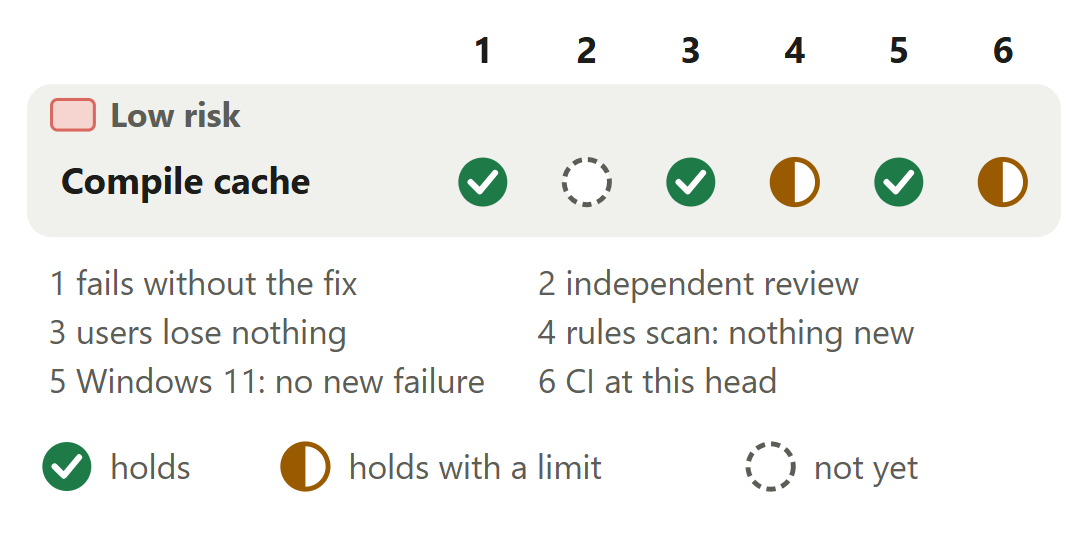
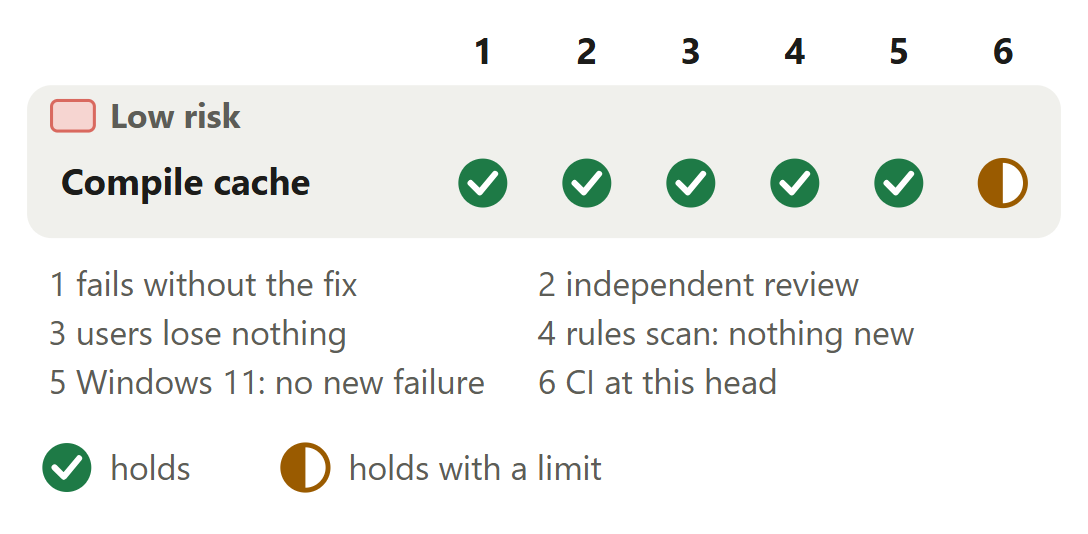
Decision report for #959 (JeanFrancoisGagne/hook-call-loads-only-what-it-needs)
hook-call-loads-only-what-it-needs/ holds what the pull request's callout links: README.md, the report in GitHub Markdown; report.html, the self-standing page; and 1 image(s).

diff --git a/hook-call-loads-only-what-it-needs/report.html b/hook-call-loads-only-what-it-needs/report.html
@@ -317,42 +317,43 @@ td .src { display: block; font-size: 13px; color: var(--muted); margin-top: 3px;
   <div class="q"><div class="ql">1. The one question</div>
   <p>May Rerail&#x27;s Claude Code hook launcher turn on Node&#x27;s compile cache, in Node&#x27;s default folder, so each Windows hook call reuses earlier compiled code?</p>
   </div>
-  <p class="rec"><b>We recommend:</b> approve it: every hook does what it did, and each Windows hook call starts about 26 ms sooner, 241 to 215 ms at the median on Windows 11.</p>
+  <p class="rec"><b>We recommend:</b> approve it: every hook does what it did, and each Windows hook call starts about 21 ms sooner, 180 to 159 ms at the median on Windows 11.</p>
   <div class="big">
-    <div><b class="w">86 lines</b><span>in 4 files. 28 ship, 58 are tests and text.</span></div><div><b class="w">Fast review</b><span>Low risk: one module; every session&#x27;s hooks answer as before.</span></div><div><b class="w">Waits on Nothing</b><span>CI at the first merge: no failure <code>main</code> lacks.</span></div><div><b class="w">4 not verified</b><span><a href="#gaps">Part 8</a> lists each.</span></div>
+    <div><b class="w">199 lines</b><span>in 4 files. 39 ship, 160 are tests and text.</span></div><div><b class="w">Fast review</b><span>Low risk: one module; every session&#x27;s hooks answer as before.</span></div><div><b class="w">Waits on Nothing</b><span>CI at an earlier form: no failure <code>main</code> lacks.</span></div><div><b class="w">5 not verified</b><span><a href="#gaps">Part 8</a> lists each.</span></div>
   </div>
-  <p class="state">Read from <a href="https://github.com/neralabs/rerail/pull/959">GitHub</a> on 20 November 2026, at head 26d6f38b3.</p>
+  <p class="state">Read from <a href="https://github.com/neralabs/rerail/pull/959">GitHub</a> on 21 November 2026, at head 023690bfb.</p>
 </header>
 <section id="intent"><h2>2. Intent, and the gap</h2>
-<figure class="fg flat"><table class="tc it"><colgroup><col style="width:15%"><col style="width:25%"><col style="width:29%"><col style="width:31%"></colgroup><thead><tr><th>Change</th><th>Intended</th><th>Found</th><th>Now</th></tr></thead><tbody><tr><td class="k"><b>A compile each call</b></td><td class="in" data-l="Intended">A hook call spends its time on the hook&#x27;s work, not on compiling the same script again in every process. <span class="tagx">our reading</span></td><td class="fo" data-l="Found">Every Windows hook call parses and compiles the 2.3 MB hook script again: 33.3 ms of a 217 ms call at the median, idle Windows 11. <span class="tagx">marks, 140 calls</span></td><td class="now" data-l="Now"><b>Closes the gap</b> and turns on Node&#x27;s compile cache in the launcher&#x27;s process, gives a hook it runs under another node the same folder, and leaves it off where <code>NODE_DISABLE_COMPILE_CACHE=1</code> says.</td></tr></tbody></table>
+<figure class="fg flat"><table class="tc it"><colgroup><col style="width:15%"><col style="width:25%"><col style="width:29%"><col style="width:31%"></colgroup><thead><tr><th>Change</th><th>Intended</th><th>Found</th><th>Now</th></tr></thead><tbody><tr><td class="k"><b>A compile each call</b></td><td class="in" data-l="Intended">A hook call spends its time on the hook&#x27;s work, not on compiling the same script again in every process. <span class="tagx">our reading</span></td><td class="fo" data-l="Found">Every Windows hook call parses and compiles the 2.3 MB hook script again: 33.3 ms of a 217 ms call at the median, idle Windows 11. <span class="tagx">marks, 140 calls</span></td><td class="now" data-l="Now"><b>Closes the gap</b> and turns on Node&#x27;s compile cache in the launcher&#x27;s process, or, under another node, in the recorded node&#x27;s launcher; it stays off where <code>NODE_DISABLE_COMPILE_CACHE=1</code> says.</td></tr></tbody></table>
 <figcaption>Found in November 2026 on Windows 11 virtual machines, timing each part of a Claude Code hook call.</figcaption></figure>
 <details class="ev"><summary>Sources at main, and causes</summary><div class="table-wrap"><table class="tc tight"><colgroup><col style="width:16%"><col style="width:42%"><col style="width:42%"></colgroup><thead><tr><th>Change</th><th>Where main states the intent</th><th>The cause, and what was measured</th></tr></thead><tbody><tr><td class="k">A compile each call</td><td data-l="Where main states the intent"><code>src/harness/hook-launcher.ts</code> at d54b586a8, lines 1 to 13: the launcher &quot;runs the hook under the node recorded at registration, in this process when that node started it&quot;. Nothing in it turns on Node&#x27;s compile cache.</td><td data-l="The cause, and what was measured">Each hook event starts a Node, and Node keeps its compile cache off unless <code>NODE_COMPILE_CACHE</code> or <code>module.enableCompileCache</code> turns it on, so V8 compiles the whole script in every process. A CPU profile of 3 calls on a busy machine put <code>compileSourceTextModule</code> at 44.3 ms a call at <code>main</code>. With <code>NODE_COMPILE_CACHE</code> set by hand, <code>main</code>&#x27;s calls went from 227 to 201 ms at the median.</td></tr></tbody></table></div></details>
 </section><section id="look"><h2>3. Where to look</h2>
 <p class="sub">Minutes are our estimate.</p>
-<ol class="steps"><li class="first"><div><span class="rf">Read first</span><b><code>hook-launcher.ts</code>: <code>compileCacheEnv</code>, and the <code>env</code> it hands <code>spawnSync</code></b><span class="min">5 min</span><span class="x">Can an old node, a folder Node cannot make, or <code>NODE_DISABLE_COMPILE_CACHE=1</code> stop a hook from running?</span></div></li></ol>
-<div class="skim"><i></i><div><span class="rf">Then skim</span><b>Tests and text</b><span class="min">3 min</span><span class="x"><code>hook-launcher.test.ts</code>: a stand-in hook reports <code>getCompileCacheDir()</code>, run through the launcher in its own process and under another node, with the cache on and off.</span></div></div>
+<ol class="steps"><li class="first"><div><span class="rf">Read first</span><b><code>hook-launcher.ts</code>: <code>turnOnCompileCache</code>, and the launcher it starts under the recorded node with <code>--here</code></b><span class="min">5 min</span><span class="x">Can an old node, <code>NODE_DISABLE_COMPILE_CACHE=1</code> or a file named <code>--here</code> stop a hook or start a third launcher?</span></div></li></ol>
+<div class="skim"><i></i><div><span class="rf">Then skim</span><b>Tests and text</b><span class="min">3 min</span><span class="x"><code>hook-launcher.test.ts</code>: a stand-in hook reports <code>getCompileCacheDir()</code>, run through the launcher in its own process and under another node, with the cache on and off, and a launcher started with <code>--here</code>.</span></div></div>
 </section><section id="grid"><h2>4. Risk against verification</h2>
-<figure class="fg"><svg viewBox="0 0 340 159" role="img" aria-label="The changes by risk, high on top, against six checks. Compile cache, low risk: independent review does not hold yet, rules scan: nothing new holds with a limit. CI at this head holds with a limit for every change." class="dg grid"><text x="150" y="13" text-anchor="middle" class="t b">1</text><text x="184" y="13" text-anchor="middle" class="t b">2</text><text x="218" y="13" text-anchor="middle" class="t b">3</text><text x="252" y="13" text-anchor="middle" class="t b">4</text><text x="286" y="13" text-anchor="middle" class="t b">5</text><text x="320" y="13" text-anchor="middle" class="t b">6</text><rect x="1" y="20" width="338" height="50" rx="8" class="bx zone"/><rect x="9" y="25" width="14" height="10" rx="2" class="rk low"/><text x="28" y="34" class="t s b">Low risk</text><text x="12" y="56" class="t b">Compile cache</text><g><title>Compile cache, fails without the fix: With the test alone at `main` d54b586a8, the two new cases of `hook-launcher.test.ts` fail on Windows 11 and on Linux x64: 2 failed, 13 passed. At afc47e2e3 all 15 pass on both.</title><circle cx="150" cy="52" r="8" class="mh"/><path d="M146 52l3 3l5 -6" class="mt"/></g><g><title>Compile cache, independent review: No review by a second reader has run on this change yet.</title><circle cx="184" cy="52" r="7.4" class="mo"/></g><g><title>Compile cache, users lose nothing: No registered hook command and no hook&#x27;s code changes. A node without `module.enableCompileCache`, a cache folder Node cannot make, or `NODE_DISABLE_COMPILE_CACHE=1` runs the hook as before; two cases check the last on both systems.</title><circle cx="218" cy="52" r="8" class="mh"/><path d="M214 52l3 3l5 -6" class="mt"/></g><g><title>Compile cache, rules scan: nothing new: `npm run check` passed in the commit hook at afc47e2e3. The automated reviewer&#x27;s rules have not run over the diff.</title><circle cx="252" cy="52" r="7.4" class="ml"/><path d="M252 44.6A7.4 7.4 0 0 0 252 59.4Z" class="mlf"/></g><g><title>Compile cache, Windows 11: no new failure: Windows 11, 8 cores: the test file passed, 15 of 15, and seven hook kinds ran 50 calls each a build, as set-up registers them, with no failed call.</title><circle cx="286" cy="52" r="8" class="mh"/><path d="M282 52l3 3l5 -6" class="mt"/></g><g><title>Compile cache, CI at this head: The repository&#x27;s CI ran at fad788bb3, the first merge of `main`, on GitHub&#x27;s runners in the fork: no failure `main` lacks there. One Rust job was cancelled; the change reaches no Rust. The second merge changed no file both sides touch.</title><circle cx="320" cy="52" r="7.4" class="ml"/><path d="M320 44.6A7.4 7.4 0 0 0 320 59.4Z" class="mlf"/></g><text x="8" y="89" class="t s">1  fails without the fix</text><text x="168" y="89" class="t s">2  independent review</text><text x="8" y="105" class="t s">3  users lose nothing</text><text x="168" y="105" class="t s">4  rules scan: nothing new</text><text x="8" y="121" class="t s">5  Windows 11: no new failure</text><text x="168" y="121" class="t s">6  CI at this head</text><g><title>holds</title><circle cx="14" cy="145" r="8" class="mh"/><path d="M10 145l3 3l5 -6" class="mt"/></g><text x="28" y="149" class="t s">holds</text><g><title>holds with a limit</title><circle cx="92" cy="145" r="7.4" class="ml"/><path d="M92 137.6A7.4 7.4 0 0 0 92 152.4Z" class="mlf"/></g><text x="106" y="149" class="t s">holds with a limit</text><g><title>does not hold yet</title><circle cx="244.1" cy="145" r="7.4" class="mo"/></g><text x="258.1" y="149" class="t s">not yet</text></svg>
-<figcaption>One change, low risk: one function in the Windows hook launcher; no registered hook command and no hook&#x27;s code changes.</figcaption></figure>
-<details class="ev"><summary>Each limit, and each check that does not hold yet</summary><div class="table-wrap"><table class="tc tight"><colgroup><col style="width:18%"><col style="width:22%"><col style="width:60%"></colgroup><thead><tr><th>Change</th><th>Check</th><th>Its limit, or why it does not hold yet</th></tr></thead><tbody><tr><td class="k">Compile cache</td><td data-l="Check">independent review</td><td data-l="Its limit, or why it does not hold yet">No review by a second reader has run on this change yet.</td></tr><tr><td class="k">Compile cache</td><td data-l="Check">rules scan: nothing new</td><td data-l="Its limit, or why it does not hold yet"><code>npm run check</code> passed in the commit hook at afc47e2e3. The automated reviewer&#x27;s rules have not run over the diff.</td></tr><tr><td class="k">Compile cache</td><td data-l="Check">CI at this head</td><td data-l="Its limit, or why it does not hold yet">The repository&#x27;s CI ran at fad788bb3, the first merge of <code>main</code>, on GitHub&#x27;s runners in the fork: no failure <code>main</code> lacks there. One Rust job was cancelled; the change reaches no Rust. The second merge changed no file both sides touch.</td></tr></tbody></table></div></details>
+<figure class="fg"><svg viewBox="0 0 340 159" role="img" aria-label="The changes by risk, high on top, against six checks. Compile cache, low risk: the first five checks hold. CI at this head holds with a limit for every change." class="dg grid"><text x="150" y="13" text-anchor="middle" class="t b">1</text><text x="184" y="13" text-anchor="middle" class="t b">2</text><text x="218" y="13" text-anchor="middle" class="t b">3</text><text x="252" y="13" text-anchor="middle" class="t b">4</text><text x="286" y="13" text-anchor="middle" class="t b">5</text><text x="320" y="13" text-anchor="middle" class="t b">6</text><rect x="1" y="20" width="338" height="50" rx="8" class="bx zone"/><rect x="9" y="25" width="14" height="10" rx="2" class="rk low"/><text x="28" y="34" class="t s b">Low risk</text><text x="12" y="56" class="t b">Compile cache</text><g><title>Compile cache, fails without the fix: With the test alone at `main` d54b586a8, the two cache cases of `hook-launcher.test.ts` fail on Windows 11 and on Linux x64. Here all 22 cases pass on two Windows 11 machines and on Linux x64.</title><circle cx="150" cy="52" r="8" class="mh"/><path d="M146 52l3 3l5 -6" class="mt"/></g><g><title>Compile cache, independent review: Under another node the launcher starts itself under the recorded node with `--here`, and the hook gets no `NODE_COMPILE_CACHE` the person did not set. The case for that word fails with the launcher&#x27;s check taken out, on Windows 11 and on Linux x64: 1 failed, 21 passed.</title><circle cx="184" cy="52" r="8" class="mh"/><path d="M180 52l3 3l5 -6" class="mt"/></g><g><title>Compile cache, users lose nothing: No registered hook command and no hook&#x27;s code changes. A node without `module.enableCompileCache`, a cache folder Node cannot make, or `NODE_DISABLE_COMPILE_CACHE=1` runs the hook as before; cases check the last on both systems.</title><circle cx="218" cy="52" r="8" class="mh"/><path d="M214 52l3 3l5 -6" class="mt"/></g><g><title>Compile cache, rules scan: nothing new: Our own second reader&#x27;s three follow-ups and one nit are each closed with a case or shown false by Node&#x27;s source. The automated reviewer&#x27;s rules find nothing new, and CI&#x27;s lint and type-check commands pass on Linux x64.</title><circle cx="252" cy="52" r="8" class="mh"/><path d="M248 52l3 3l5 -6" class="mt"/></g><g><title>Compile cache, Windows 11: no new failure: Windows 11, 8 cores: seven hook kinds ran 50 calls each a form, as set-up registers them, with no failed call.</title><circle cx="286" cy="52" r="8" class="mh"/><path d="M282 52l3 3l5 -6" class="mt"/></g><g><title>Compile cache, CI at this head: The repository&#x27;s CI ran at fad788bb3, an earlier form, on GitHub&#x27;s runners in the fork: no failure `main` lacks there. One Rust job was cancelled; the change reaches no Rust.</title><circle cx="320" cy="52" r="7.4" class="ml"/><path d="M320 44.6A7.4 7.4 0 0 0 320 59.4Z" class="mlf"/></g><text x="8" y="89" class="t s">1  fails without the fix</text><text x="168" y="89" class="t s">2  independent review</text><text x="8" y="105" class="t s">3  users lose nothing</text><text x="168" y="105" class="t s">4  rules scan: nothing new</text><text x="8" y="121" class="t s">5  Windows 11: no new failure</text><text x="168" y="121" class="t s">6  CI at this head</text><g><title>holds</title><circle cx="14" cy="145" r="8" class="mh"/><path d="M10 145l3 3l5 -6" class="mt"/></g><text x="28" y="149" class="t s">holds</text><g><title>holds with a limit</title><circle cx="92" cy="145" r="7.4" class="ml"/><path d="M92 137.6A7.4 7.4 0 0 0 92 152.4Z" class="mlf"/></g><text x="106" y="149" class="t s">holds with a limit</text></svg>
+<figcaption>One change, low risk: the Windows hook launcher turns the cache on, under another node from the recorded node; no hook command or hook code changes.</figcaption></figure>
+<details class="ev"><summary>Each half mark's limit</summary><div class="table-wrap"><table class="tc tight"><colgroup><col style="width:18%"><col style="width:22%"><col style="width:60%"></colgroup><thead><tr><th>Change</th><th>Check</th><th>It holds with this limit</th></tr></thead><tbody><tr><td class="k">Compile cache</td><td data-l="Check">CI at this head</td><td data-l="It holds with this limit">The repository&#x27;s CI ran at fad788bb3, an earlier form, on GitHub&#x27;s runners in the fork: no failure <code>main</code> lacks there. One Rust job was cancelled; the change reaches no Rust.</td></tr></tbody></table></div></details>
 </section><section id="changes"><h2>5. The changes</h2>
-<ul class="lines"><li><span class="chip low"><i></i>Low risk</span> <b>The launcher turns on the cache</b>: Windows 11, by the marks: the hook script&#x27;s compile takes 37.2 ms a call on <code>main</code>, 9.2 ms here.</li></ul>
+<ul class="lines"><li><span class="chip low"><i></i>Low risk</span> <b>The launcher turns on the cache</b>: Windows 11: a hook call takes 180 ms at the median on <code>main</code>, 159 ms here.</li></ul>
 </section><section id="decisions"><h2>6. The decisions</h2>
 <div class="dblock"><h3>Remove the compile with Node&#x27;s cache, or with a smaller hook script?</h3>
 <p><b>We chose</b> the compile cache in the launcher: it removes the compile with one call and changes no module the hook loads.</p>
 <p><b>Would change our mind:</b> A maintainer who prefers the slimmer hook script first, which would also shorten the hook&#x27;s top-level code.</p>
-<details class="ev"><summary>Options and evidence</summary><div class="table-wrap"><table class="tc tight"><colgroup><col style="width:28%"><col style="width:22%"><col style="width:22%"><col style="width:28%"></colgroup><thead><tr><th>Option</th><th>What a user gets</th><th>Cost</th><th>What it breaks</th></tr></thead><tbody><tr><td class="k">Compile cache in the launcher <span class='tag new'>chosen</span></td><td data-l="What a user gets">The script&#x27;s compile in a Windows call goes from 37 to 9 ms.</td><td data-l="Cost">One call in the launcher.</td><td data-l="What it breaks">Nothing found.</td></tr><tr><td class="k">A hook script holding only the hook&#x27;s own modules</td><td data-l="What a user gets">Less to compile and less top-level code to run: that code and the work before the first request take 36.0 ms a call.</td><td data-l="Cost">Moving the daemon&#x27;s event client and its runtime out of the hook&#x27;s imports, in several modules.</td><td data-l="What it breaks">Nothing, if built.</td></tr><tr><td class="k">One request to the daemon per call in place of four</td><td data-l="What a user gets">Part of the 30 ms the four requests take beside the daemon&#x27;s own answers, not measured apart.</td><td data-l="Cost">A new daemon request.</td><td data-l="What it breaks">A daemon of an earlier release would not answer it.</td></tr><tr><td class="k">The compile cache for Linux and macOS too</td><td data-l="What a user gets">The same gain there: on Linux x64 the compile is 32.6 ms of a 167 ms call.</td><td data-l="Cost">A new registered hook command, rewritten in every person&#x27;s settings.</td><td data-l="What it breaks">Nothing, if built.</td></tr></tbody></table></div><p><b>Evidence.</b> Marks in a throwaway copy of the installed hook, 140 calls on idle Windows 11, medians: Windows starts the process in 16.9 ms, Node&#x27;s own start takes 14.1 ms, built-ins and better-sqlite3&#x27;s JavaScript 22.7 ms, the daemon&#x27;s answers 30.9 ms.</p></details></div>
+<details class="ev"><summary>Options and evidence</summary><div class="table-wrap"><table class="tc tight"><colgroup><col style="width:28%"><col style="width:22%"><col style="width:22%"><col style="width:28%"></colgroup><thead><tr><th>Option</th><th>What a user gets</th><th>Cost</th><th>What it breaks</th></tr></thead><tbody><tr><td class="k">Compile cache in the launcher <span class='tag new'>chosen</span></td><td data-l="What a user gets">The script&#x27;s compile in a Windows call goes from 37 to 9 ms.</td><td data-l="Cost">One call in the launcher.</td><td data-l="What it breaks">Nothing found.</td></tr><tr><td class="k">A hook script holding only the hook&#x27;s own modules</td><td data-l="What a user gets">Less to compile and less top-level code to run: that code and the work before the first request take 36.0 ms a call.</td><td data-l="Cost">Moving the daemon&#x27;s event client and its runtime out of the hook&#x27;s imports, in several modules.</td><td data-l="What it breaks">Nothing, if built.</td></tr><tr><td class="k">One request to the daemon per call in place of four</td><td data-l="What a user gets">Part of the 30 ms the four requests take beside the daemon&#x27;s own answers, not measured apart.</td><td data-l="Cost">A new daemon request.</td><td data-l="What it breaks">A daemon of an earlier release would not answer it.</td></tr><tr><td class="k">The compile cache for Linux and macOS too</td><td data-l="What a user gets">The same gain there: on Linux x64 the compile is 33.9 ms of a 169 ms call.</td><td data-l="Cost">A new registered hook command, rewritten in every person&#x27;s settings.</td><td data-l="What it breaks">Nothing, if built.</td></tr></tbody></table></div><p><b>Evidence.</b> Marks in a throwaway copy of the installed hook, 140 calls on idle Windows 11, medians: Windows starts the process in 16.9 ms, Node&#x27;s own start takes 14.1 ms, built-ins and better-sqlite3&#x27;s JavaScript 22.7 ms, the daemon&#x27;s answers 30.9 ms.</p></details></div>
 <div class="dblock"><h3>Keep the cache in Node&#x27;s default folder, or under the Rerail home?</h3>
 <p><b>We chose</b> Node&#x27;s own folder, or the one <code>NODE_COMPILE_CACHE</code> names: Node&#x27;s tools already share it, and the launcher works out no path.</p>
 <p><b>Would change our mind:</b> A maintainer who prefers the cache folder under the Rerail home.</p>
-<details class="ev"><summary>Options and evidence</summary><div class="table-wrap"><table class="tc tight"><colgroup><col style="width:28%"><col style="width:22%"><col style="width:22%"><col style="width:28%"></colgroup><thead><tr><th>Option</th><th>What a user gets</th><th>Cost</th><th>What it breaks</th></tr></thead><tbody><tr><td class="k">Node&#x27;s default folder, or the one <code>NODE_COMPILE_CACHE</code> names <span class='tag new'>chosen</span></td><td data-l="What a user gets">One cache for every Node program a person runs, where a person who set <code>NODE_COMPILE_CACHE</code> expects it.</td><td data-l="Cost">About 1.2 MB more in the temporary folder.</td><td data-l="What it breaks">Nothing found.</td></tr><tr><td class="k">A folder under the Rerail home</td><td data-l="What a user gets">Rerail&#x27;s files in one place.</td><td data-l="Cost">A path the launcher works out before it loads the hook.</td><td data-l="What it breaks">A person&#x27;s own <code>NODE_COMPILE_CACHE</code> would not be followed.</td></tr></tbody></table></div><p><b>Evidence.</b> After the Windows 11 run the temporary folder&#x27;s cache held 596 files, 4,012 KB here against 580 files, 2,856 KB at <code>main</code>, where npm&#x27;s own set-up entries are the rest.</p></details></div>
+<details class="ev"><summary>Options and evidence</summary><div class="table-wrap"><table class="tc tight"><colgroup><col style="width:28%"><col style="width:22%"><col style="width:22%"><col style="width:28%"></colgroup><thead><tr><th>Option</th><th>What a user gets</th><th>Cost</th><th>What it breaks</th></tr></thead><tbody><tr><td class="k">Node&#x27;s default folder, or the one <code>NODE_COMPILE_CACHE</code> names <span class='tag new'>chosen</span></td><td data-l="What a user gets">One cache for every Node program a person runs, where a person who set <code>NODE_COMPILE_CACHE</code> expects it.</td><td data-l="Cost">About 1.2 MB more in the temporary folder.</td><td data-l="What it breaks">Nothing found.</td></tr><tr><td class="k">A folder under the Rerail home</td><td data-l="What a user gets">Rerail&#x27;s files in one place.</td><td data-l="Cost">A path the launcher works out before it loads the hook.</td><td data-l="What it breaks">A person&#x27;s own <code>NODE_COMPILE_CACHE</code> would not be followed.</td></tr></tbody></table></div><p><b>Evidence.</b> After the Windows 11 run the temporary folder&#x27;s cache held 596 files, 4,052 KB here against 580 files, 2,856 KB at <code>main</code>, where npm&#x27;s own set-up entries are the rest.</p></details></div>
 </section><section id="fits"><h2>7. How it fits</h2>
-<p>Nothing has to merge first: the change stands on <code>main</code> d54b586a8, and the head holds <code>main</code> d93d74b74 through two merges Git made alone.</p>
-<p>In code it edits <code>hook-launcher.ts</code> alone; <code>main</code>&#x27;s later edit of <code>docs/windows.md</code> is in another section of that file.</p>
+<p>Nothing has to merge first: the head holds <code>main</code> 92fae67d8 through one merge Git made alone.</p>
+<p>#963 shares no line with it and merges alone either way. With #963, only older entries and paths <code>cmd.exe</code> cannot start take two Nodes.</p>
 </section><section id="gaps"><h2>8. What is not covered</h2>
 <ul class="lines">
 <li><b>Linux and macOS</b> start the hook from a shell-form entry without the launcher, so they still compile the script at each call.</li>
 <li><b>Codex&#x27;s and Cursor&#x27;s Windows entries</b> start the hook from PowerShell without the launcher, and still compile it at each call.</li>
+<li><b>Another node first on PATH</b> still starts two Nodes a call, as at <code>main</code>, and the second loads the launcher too: 204 ms against 221 ms at <code>main</code>.</li>
 <li><b>The slimmer hook script</b> is the next option, not built here: it would leave less to compile and less top-level code to run.</li>
 <li><b>macOS</b> never ran.</li>
 </ul>
@@ -361,14 +362,14 @@ td .src { display: block; font-size: 13px; color: var(--muted); margin-top: 3px;
 <ul class="facts">
 <li>A registered command that names the cache would bring the gain to Linux and macOS; it rewrites every person&#x27;s settings, so it is left for a change of its own.</li>
 <li>The two requests a call makes before its event, a check of the daemon&#x27;s capability and a read of the repository&#x27;s state, and the event itself stay as they are.</li>
-<li>Other runs kept the Windows 11 machine busy during the timing, at 100% CPU at its start; <code>main</code>, this change and 0.1.5 ran round by round in the same run.</li>
+<li>The Windows 11 machine was idle during the timing, 1% CPU at its start and end; a short test run on a sibling virtual machine overlapped its first rounds, which all four forms shared.</li>
 </ul></details>
 </section><section id="asks"><h2>9. What we ask of you</h2>
 <p>We ask no ruling.</p>
 </section><section id="evidence"><h2>10. Evidence</h2>
 <p>The description on GitHub is the record: &quot;Why it is worth landing&quot; holds the timings, and &quot;How you tested it&quot; the cases and the runs.</p>
-<details class="ev"><summary>Runs at this head</summary><div class="table-wrap"><table class="tc tight"><colgroup><col style="width:16%"><col style="width:40%"><col style="width:44%"></colgroup><thead><tr><th>Where</th><th>What ran</th><th>Result</th></tr></thead><tbody><tr><td class="k">Windows 11 and Linux x64</td><td data-l="What ran"><code>test/harness/hook-launcher.test.ts</code> with the test alone at <code>main</code> d54b586a8, then at afc47e2e3</td><td data-l="Result">With the test alone: 2 failed, 13 passed on each system. At afc47e2e3: 15 passed on each.</td></tr><tr><td class="k">Windows 11, 8 cores</td><td data-l="What ran">Rerail packed and set up from a local registry, <code>main</code> d54b586a8 and this change beside the published 0.1.5; seven hook kinds, 50 calls each a build, round by round</td><td data-l="Result">Medians: 241 ms at <code>main</code>, 215 ms here, 250 ms for 0.1.5, 50 ms for <code>node -e 0</code>; 95th percentiles 394, 376 and 519 ms. Each kind 18 to 31 ms faster here.</td></tr><tr><td class="k">Linux x64, 16 cores</td><td data-l="What ran">The same set-up and hook calls, 350 calls a build</td><td data-l="Result">Medians: 174 ms at <code>main</code>, 176 ms here, 175 ms for 0.1.5, 20 ms for <code>node -e 0</code>: unchanged, as expected, since the shell-form entry skips the launcher.</td></tr><tr><td class="k">Windows 11, 8 cores</td><td data-l="What ran">The issue&#x27;s steps, twice: the hook as the launcher leaves it, the hook with the cache off, and <code>node -e 0</code></td><td data-l="Result"><code>main</code> 254, 259 and 87 ms, then 167, 169 and 46 ms; here 219, 255 and 84 ms, then 127, 149 and 43 ms. Other work kept the machine at 100% CPU in the first run.</td></tr><tr><td class="k">GitHub&#x27;s runners, in the fork</td><td data-l="What ran">The repository&#x27;s CI at fad788bb3, the first merge of <code>main</code></td><td data-l="Result">No failure that <code>main</code> does not have there; one Rust job was cancelled, and the change reaches no Rust.</td></tr></tbody></table></div></details>
-<details class="ev"><summary>Sources</summary><p>The branch at 26d6f38b3 and its diff against <code>main</code> d93d74b74, read on 20 November 2026; tests at afc47e2e3 and timings on <code>main</code> d54b586a8, on Windows 11 virtual machines and Linux x64 machines.</p></details>
+<details class="ev"><summary>Runs at this head</summary><div class="table-wrap"><table class="tc tight"><colgroup><col style="width:16%"><col style="width:40%"><col style="width:44%"></colgroup><thead><tr><th>Where</th><th>What ran</th><th>Result</th></tr></thead><tbody><tr><td class="k">Windows 11 and Linux x64</td><td data-l="What ran"><code>test/harness/hook-launcher.test.ts</code> with the test alone at <code>main</code> d54b586a8, then here</td><td data-l="Result">With the test alone: the two cache cases fail on each system. Here: 22 passed on two Windows 11 machines and on Linux x64.</td></tr><tr><td class="k">Windows 11 and Linux x64</td><td data-l="What ran">The launcher with its check of <code>--here</code> taken out</td><td data-l="Result">The <code>--here</code> case fails alone: 1 failed, 21 passed, on each system.</td></tr><tr><td class="k">Windows 11, 8 cores</td><td data-l="What ran">Rerail packed and set up from a local registry, <code>main</code> 92fae67d8 and this change; seven hook kinds, 50 calls each a form, round by round, with <code>node</code> on PATH the recorded node and with another node first</td><td data-l="Result">Medians: 180 ms at <code>main</code>, 159 ms here; 221 and 204 ms with the other node first, two Nodes a call at both; 35 ms for <code>node -e 0</code>. 95th percentiles 290, 266, 354 and 316 ms.</td></tr><tr><td class="k">Linux x64, 16 cores</td><td data-l="What ran">The same set-up and hook calls at <code>main</code> 92fae67d8 and this change, 350 calls a build</td><td data-l="Result">Medians: 168 ms at <code>main</code>, 167 ms with the change, 171 ms for 0.1.5, 21 ms for <code>node -e 0</code>: unchanged, as expected, since the shell-form entry skips the launcher.</td></tr><tr><td class="k">Windows 11, 8 cores</td><td data-l="What ran">The issue&#x27;s steps with the first form, twice: the hook as the launcher leaves it, the hook with the cache off, and <code>node -e 0</code></td><td data-l="Result"><code>main</code> 254, 259 and 87 ms, then 167, 169 and 46 ms; with the change 219, 255 and 84 ms, then 127, 149 and 43 ms. Other work kept the machine at 100% CPU in the first run.</td></tr><tr><td class="k">GitHub&#x27;s runners, in the fork</td><td data-l="What ran">The repository&#x27;s CI at fad788bb3, the first merge of <code>main</code></td><td data-l="Result">No failure that <code>main</code> does not have there; one Rust job was cancelled, and the change reaches no Rust.</td></tr></tbody></table></div></details>
+<details class="ev"><summary>Sources</summary><p>The branch at 023690bfb and its diff against <code>main</code> 92fae67d8, read on 21 November 2026; tests and Windows and Linux timings at this head and <code>main</code> 92fae67d8 on Windows 11 virtual machines and Linux x64 machines; the issue&#x27;s steps with the first form on <code>main</code> d54b586a8.</p></details>
 </section>
 <footer><p>A figure we could not source is left out.</p></footer>
 </main>

diff --git a/hook-call-loads-only-what-it-needs/README.md b/hook-call-loads-only-what-it-needs/README.md
@@ -1,16 +1,16 @@
 # A Windows Claude Code hook call reuses the code Node compiled
 
-For [pull request #959](https://github.com/neralabs/rerail/pull/959), head 26d6f38b3. [report.html](report.html) is the same report as one page: download it and open it.
+For [pull request #959](https://github.com/neralabs/rerail/pull/959), head 023690bfb. [report.html](report.html) is the same report as one page: download it and open it.
 
 ## 1. The decision
 
 **May Rerail's Claude Code hook launcher turn on Node's compile cache, in Node's default folder, so each Windows hook call reuses earlier compiled code?**
 
-**We recommend:** approve it: every hook does what it did, and each Windows hook call starts about 26 ms sooner, 241 to 215 ms at the median on Windows 11.
+**We recommend:** approve it: every hook does what it did, and each Windows hook call starts about 21 ms sooner, 180 to 159 ms at the median on Windows 11.
 
 | Size | Risk and review | Waits on | Not verified |
 |---|---|---|---|
-| 86 lines in 4 files: 28 ship, 58 are tests and text | Fast. Low risk: one module; every session's hooks answer as before. | Nothing. CI at the first merge: no failure `main` lacks. | 4 |
+| 199 lines in 4 files: 39 ship, 160 are tests and text | Fast. Low risk: one module; every session's hooks answer as before. | Nothing. CI at an earlier form: no failure `main` lacks. | 5 |
 
 ## 2. Intent, and the gap
 
@@ -30,29 +30,27 @@ Found in November 2026 on Windows 11 virtual machines, timing each part of a Cla
 
 ## 3. Where to look
 
-1. **Read first**, 5 min: `hook-launcher.ts`: `compileCacheEnv`, and the `env` it hands `spawnSync`. Can an old node, a folder Node cannot make, or `NODE_DISABLE_COMPILE_CACHE=1` stop a hook from running?
+1. **Read first**, 5 min: `hook-launcher.ts`: `turnOnCompileCache`, and the launcher it starts under the recorded node with `--here`. Can an old node, `NODE_DISABLE_COMPILE_CACHE=1` or a file named `--here` stop a hook or start a third launcher?
 
-**Then skim**, 3 min: `hook-launcher.test.ts`: a stand-in hook reports `getCompileCacheDir()`, run through the launcher in its own process and under another node, with the cache on and off.
+**Then skim**, 3 min: `hook-launcher.test.ts`: a stand-in hook reports `getCompileCacheDir()`, run through the launcher in its own process and under another node, with the cache on and off, and a launcher started with `--here`.
 
 ## 4. Risk against verification
 
-<img src="grid.png" width="544" alt="The changes by risk, high on top, against six checks. Compile cache, low risk: independent review does not hold yet, rules scan: nothing new holds with a limit. CI at this head holds with a limit for every change.">
+<img src="grid.png" width="544" alt="The changes by risk, high on top, against six checks. Compile cache, low risk: the first five checks hold. CI at this head holds with a limit for every change.">
 
-One change, low risk: one function in the Windows hook launcher; no registered hook command and no hook's code changes.
+One change, low risk: the Windows hook launcher turns the cache on, under another node from the recorded node; no hook command or hook code changes.
 
-<details><summary>Each limit, and each check that does not hold yet</summary>
+<details><summary>Each half mark's limit</summary>
 
-| Change | Check | Its limit, or why it does not hold yet |
+| Change | Check | It holds with this limit |
 |---|---|---|
-| Compile cache | independent review | No review by a second reader has run on this change yet. |
-| Compile cache | rules scan: nothing new | `npm run check` passed in the commit hook at afc47e2e3. The automated reviewer's rules have not run over the diff. |
-| Compile cache | CI at this head | The repository's CI ran at fad788bb3, the first merge of `main`, on GitHub's runners in the fork: no failure `main` lacks there. One Rust job was cancelled; the change reaches no Rust. The second merge changed no file both sides touch. |
+| Compile cache | CI at this head | The repository's CI ran at fad788bb3, an earlier form, on GitHub's runners in the fork: no failure `main` lacks there. One Rust job was cancelled; the change reaches no Rust. |
 
 </details>
 
 ## 5. The changes
 
-**The launcher turns on the cache**, low risk: Windows 11, by the marks: the hook script's compile takes 37.2 ms a call on `main`, 9.2 ms here.
+**The launcher turns on the cache**, low risk: Windows 11: a hook call takes 180 ms at the median on `main`, 159 ms here.
 
 <details><summary><b>6. The decisions</b></summary>
 
@@ -65,7 +63,7 @@ One change, low risk: one function in the Windows hook launcher; no registered h
 | Compile cache in the launcher **(chosen)** | The script's compile in a Windows call goes from 37 to 9 ms. | One call in the launcher. | Nothing found. |
 | A hook script holding only the hook's own modules | Less to compile and less top-level code to run: that code and the work before the first request take 36.0 ms a call. | Moving the daemon's event client and its runtime out of the hook's imports, in several modules. | Nothing, if built. |
 | One request to the daemon per call in place of four | Part of the 30 ms the four requests take beside the daemon's own answers, not measured apart. | A new daemon request. | A daemon of an earlier release would not answer it. |
-| The compile cache for Linux and macOS too | The same gain there: on Linux x64 the compile is 32.6 ms of a 167 ms call. | A new registered hook command, rewritten in every person's settings. | Nothing, if built. |
+| The compile cache for Linux and macOS too | The same gain there: on Linux x64 the compile is 33.9 ms of a 169 ms call. | A new registered hook command, rewritten in every person's settings. | Nothing, if built. |
 
 **Evidence.** Marks in a throwaway copy of the installed hook, 140 calls on idle Windows 11, medians: Windows starts the process in 16.9 ms, Node's own start takes 14.1 ms, built-ins and better-sqlite3's JavaScript 22.7 ms, the daemon's answers 30.9 ms.
 
@@ -78,28 +76,29 @@ One change, low risk: one function in the Windows hook launcher; no registered h
 | Node's default folder, or the one `NODE_COMPILE_CACHE` names **(chosen)** | One cache for every Node program a person runs, where a person who set `NODE_COMPILE_CACHE` expects it. | About 1.2 MB more in the temporary folder. | Nothing found. |
 | A folder under the Rerail home | Rerail's files in one place. | A path the launcher works out before it loads the hook. | A person's own `NODE_COMPILE_CACHE` would not be followed. |
 
-**Evidence.** After the Windows 11 run the temporary folder's cache held 596 files, 4,012 KB here against 580 files, 2,856 KB at `main`, where npm's own set-up entries are the rest.
+**Evidence.** After the Windows 11 run the temporary folder's cache held 596 files, 4,052 KB here against 580 files, 2,856 KB at `main`, where npm's own set-up entries are the rest.
 
 </details>
 
 <details><summary><b>7. How it fits</b></summary>
 
-Nothing has to merge first: the change stands on `main` d54b586a8, and the head holds `main` d93d74b74 through two merges Git made alone. In code it edits `hook-launcher.ts` alone; `main`'s later edit of `docs/windows.md` is in another section of that file.
+Nothing has to merge first: the head holds `main` 92fae67d8 through one merge Git made alone. #963 shares no line with it and merges alone either way. With #963, only older entries and paths `cmd.exe` cannot start take two Nodes.
 
 </details>
 
-<details><summary><b>8. What is not covered</b>: 4 not verified, 3 limits that stay</summary>
+<details><summary><b>8. What is not covered</b>: 5 not verified, 3 limits that stay</summary>
 
 1. **Linux and macOS** start the hook from a shell-form entry without the launcher, so they still compile the script at each call.
 2. **Codex's and Cursor's Windows entries** start the hook from PowerShell without the launcher, and still compile it at each call.
-3. **The slimmer hook script** is the next option, not built here: it would leave less to compile and less top-level code to run.
-4. **macOS** never ran.
+3. **Another node first on PATH** still starts two Nodes a call, as at `main`, and the second loads the launcher too: 204 ms against 221 ms at `main`.
+4. **The slimmer hook script** is the next option, not built here: it would leave less to compile and less top-level code to run.
+5. **macOS** never ran.
 
 **Limits that stay**
 
 - A registered command that names the cache would bring the gain to Linux and macOS; it rewrites every person's settings, so it is left for a change of its own.
 - The two requests a call makes before its event, a check of the daemon's capability and a read of the repository's state, and the event itself stay as they are.
-- Other runs kept the Windows 11 machine busy during the timing, at 100% CPU at its start; `main`, this change and 0.1.5 ran round by round in the same run.
+- The Windows 11 machine was idle during the timing, 1% CPU at its start and end; a short test run on a sibling virtual machine overlapped its first rounds, which all four forms shared.
 
 </details>
 
@@ -113,12 +112,13 @@ The description on GitHub is the record: "Why it is worth landing" holds the tim
 
 | Where | What ran | Result |
 |---|---|---|
-| Windows 11 and Linux x64 | `test/harness/hook-launcher.test.ts` with the test alone at `main` d54b586a8, then at afc47e2e3 | With the test alone: 2 failed, 13 passed on each system. At afc47e2e3: 15 passed on each. |
-| Windows 11, 8 cores | Rerail packed and set up from a local registry, `main` d54b586a8 and this change beside the published 0.1.5; seven hook kinds, 50 calls each a build, round by round | Medians: 241 ms at `main`, 215 ms here, 250 ms for 0.1.5, 50 ms for `node -e 0`; 95th percentiles 394, 376 and 519 ms. Each kind 18 to 31 ms faster here. |
-| Linux x64, 16 cores | The same set-up and hook calls, 350 calls a build | Medians: 174 ms at `main`, 176 ms here, 175 ms for 0.1.5, 20 ms for `node -e 0`: unchanged, as expected, since the shell-form entry skips the launcher. |
-| Windows 11, 8 cores | The issue's steps, twice: the hook as the launcher leaves it, the hook with the cache off, and `node -e 0` | `main` 254, 259 and 87 ms, then 167, 169 and 46 ms; here 219, 255 and 84 ms, then 127, 149 and 43 ms. Other work kept the machine at 100% CPU in the first run. |
+| Windows 11 and Linux x64 | `test/harness/hook-launcher.test.ts` with the test alone at `main` d54b586a8, then here | With the test alone: the two cache cases fail on each system. Here: 22 passed on two Windows 11 machines and on Linux x64. |
+| Windows 11 and Linux x64 | The launcher with its check of `--here` taken out | The `--here` case fails alone: 1 failed, 21 passed, on each system. |
+| Windows 11, 8 cores | Rerail packed and set up from a local registry, `main` 92fae67d8 and this change; seven hook kinds, 50 calls each a form, round by round, with `node` on PATH the recorded node and with another node first | Medians: 180 ms at `main`, 159 ms here; 221 and 204 ms with the other node first, two Nodes a call at both; 35 ms for `node -e 0`. 95th percentiles 290, 266, 354 and 316 ms. |
+| Linux x64, 16 cores | The same set-up and hook calls at `main` 92fae67d8 and this change, 350 calls a build | Medians: 168 ms at `main`, 167 ms with the change, 171 ms for 0.1.5, 21 ms for `node -e 0`: unchanged, as expected, since the shell-form entry skips the launcher. |
+| Windows 11, 8 cores | The issue's steps with the first form, twice: the hook as the launcher leaves it, the hook with the cache off, and `node -e 0` | `main` 254, 259 and 87 ms, then 167, 169 and 46 ms; with the change 219, 255 and 84 ms, then 127, 149 and 43 ms. Other work kept the machine at 100% CPU in the first run. |
 | GitHub's runners, in the fork | The repository's CI at fad788bb3, the first merge of `main` | No failure that `main` does not have there; one Rust job was cancelled, and the change reaches no Rust. |
 
-**Sources.** The branch at 26d6f38b3 and its diff against `main` d93d74b74, read on 20 November 2026; tests at afc47e2e3 and timings on `main` d54b586a8, on Windows 11 virtual machines and Linux x64 machines.
+**Sources.** The branch at 023690bfb and its diff against `main` 92fae67d8, read on 21 November 2026; tests and Windows and Linux timings at this head and `main` 92fae67d8 on Windows 11 virtual machines and Linux x64 machines; the issue's steps with the first form on `main` d54b586a8.
 
 </details>
